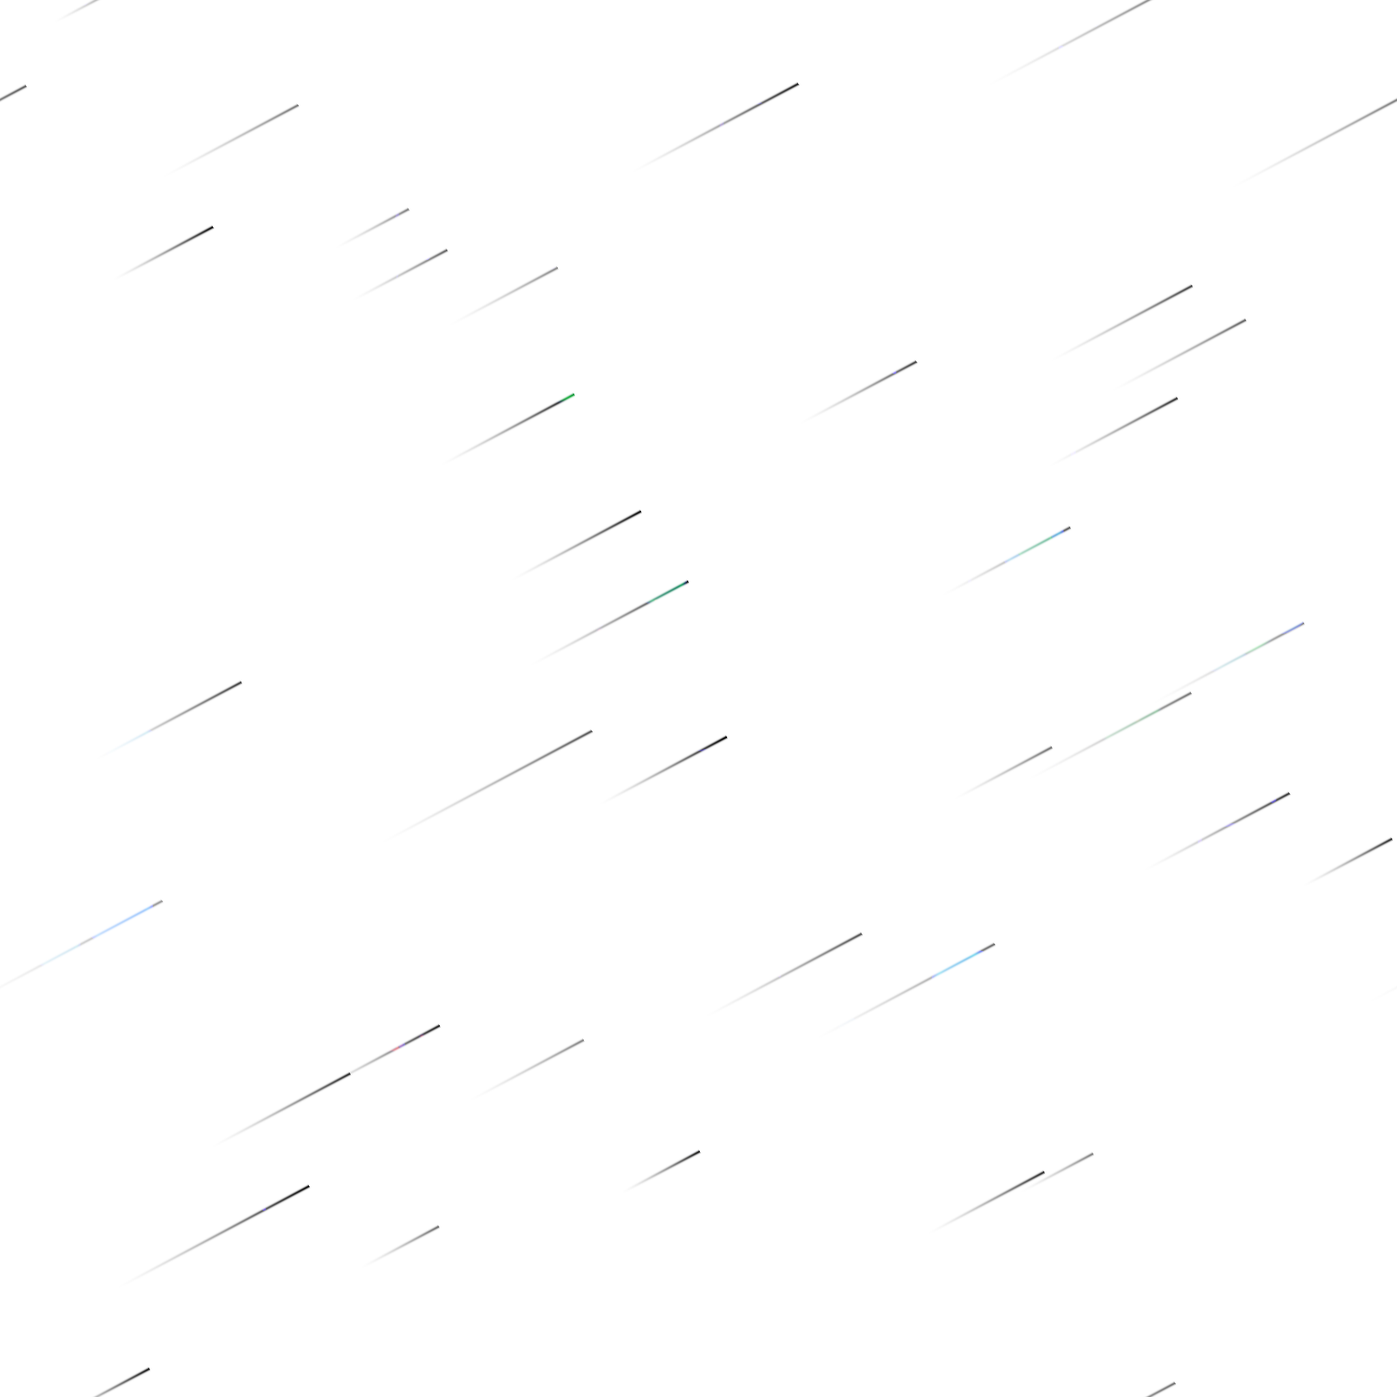
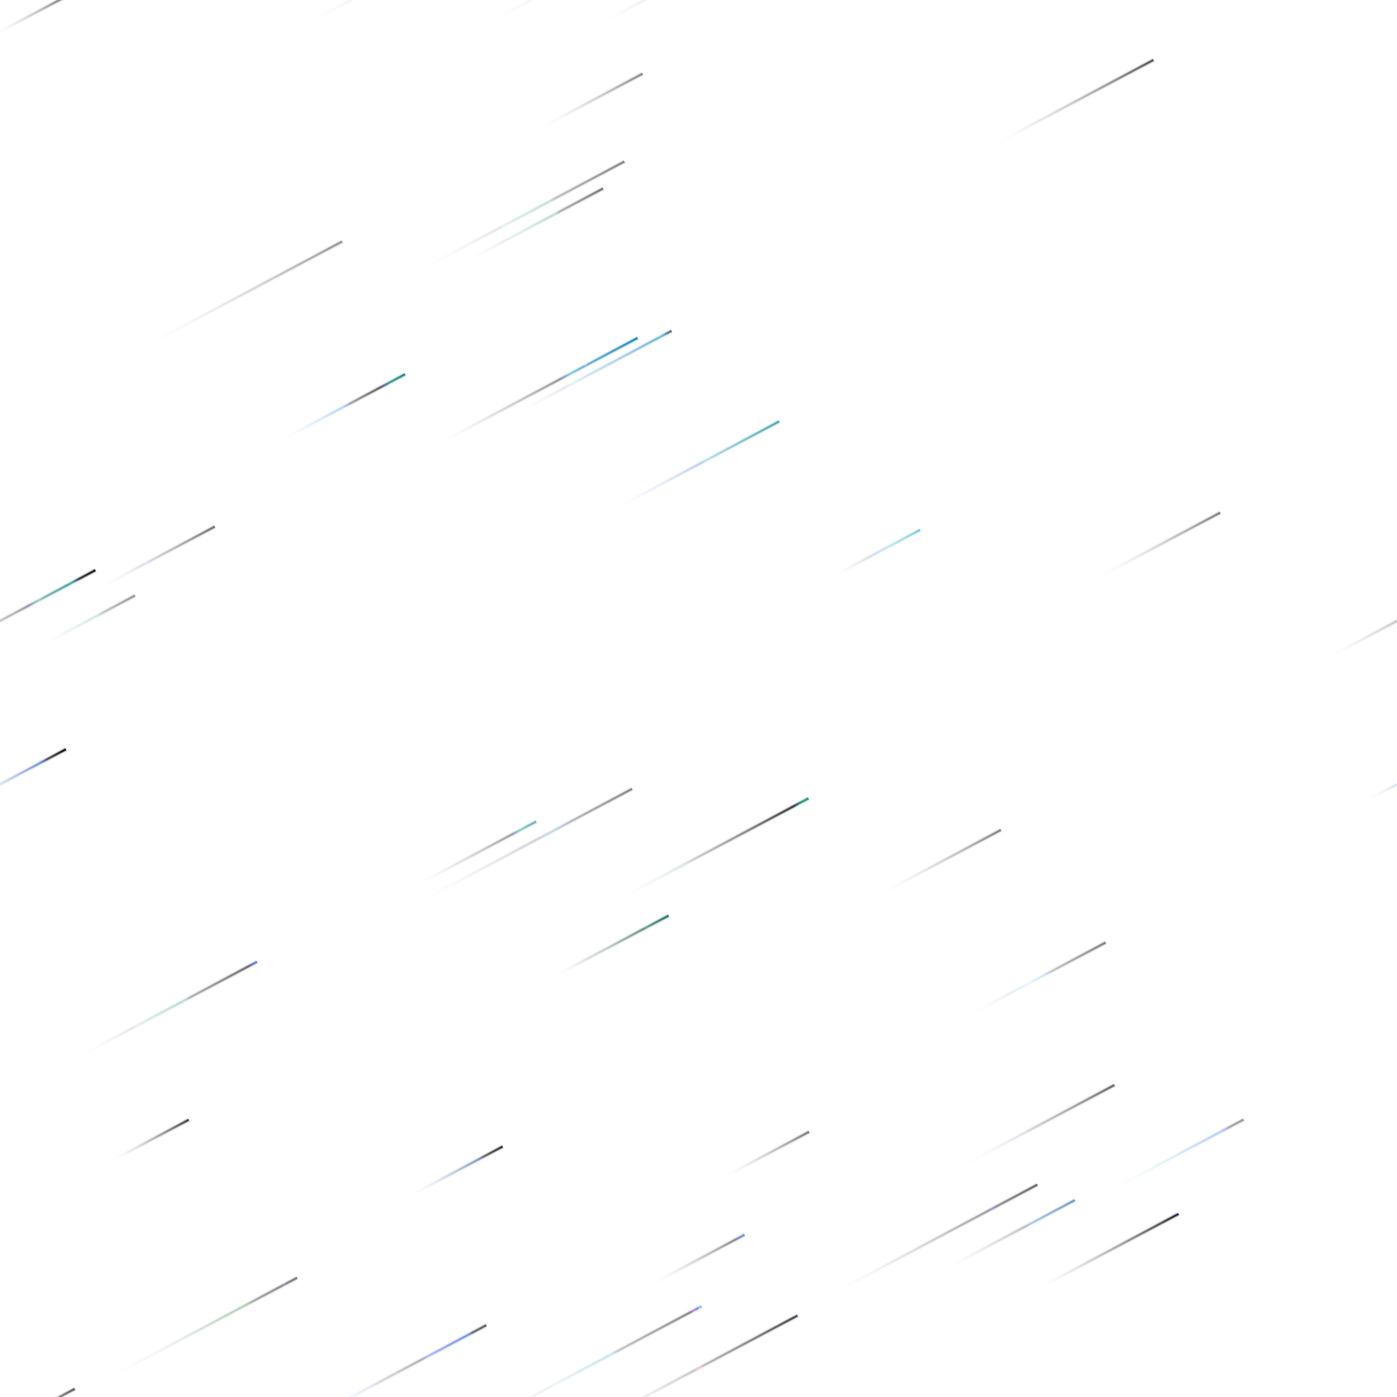
Évolution : fond façon Soleil et Lune (piliers, éclats, lignes de vitesse, anneaux au sol)
Nouvelle texture T_EvolutionFx (piliers, éclats à quatre branches, lignes de vitesse) ;
ciel plus vif avec plus de bokeh, sol avec deux anneaux qui respirent. Réglages dans docs/PROGRESSION.md.

Claude-Session: https://claude.ai/code/session_018Va8hDxUXcx8HaiPBTcg7H

diff --git a/Tools/Progression/import_evolution_backdrop.py b/Tools/Progression/import_evolution_backdrop.py
@@ -4,11 +4,13 @@ Outils > Exécuter un script Python... > choisir ce fichier (n'importe quelle ma
 les deux matériaux à chaque fois (les réglages changés à la main dans ces matériaux sont alors perdus, les noter).
 
 Crée dans /Game/Progression :
-  - T_EvolutionSky : étoiles, bokeh, phase de scintillement, traînées (Tools/Progression/Assets/T_EvolutionSky.png,
-    fabriquée par make_evolution_sky.py) ;
-  - M_EvolutionSky : le ciel derrière le Pokémon. Dégradé bleu (foncé en haut, lumineux à l'horizon), grande
-    lueur au centre de l'image, étoiles qui scintillent et glissent, bokeh qui dérive, traînées de lumière ;
-  - M_EvolutionFloor : le sol lumineux sous le Pokémon (lueur cyan au centre, même bleu que le ciel à l'horizon).
+  - T_EvolutionSky : étoiles, bokeh, phase de scintillement, traînées ; T_EvolutionFx : piliers de lumière,
+    éclats à quatre branches, lignes de vitesse (Tools/Progression/Assets, fabriquées par make_evolution_sky.py) ;
+  - M_EvolutionSky : le fond derrière le Pokémon, d'après l'évolution de Soleil et Lune. Dégradé bleu, lueur au
+    centre de l'image, piliers de lumière qui vacillent, gros bokeh qui monte, éclats qui apparaissent, lignes de
+    vitesse qui partent du centre, étoiles et traînées ;
+  - M_EvolutionFloor : le sol lumineux sous le Pokémon (lueur cyan, deux anneaux qui respirent, même bleu que le
+    ciel à l'horizon).
 Utilisés par UEvolutionBackdropComponent (Source/PokemonNewAge/Progression/EvolutionBackdrop.h), un composant
 de AEvolutionScene. Sans ces matériaux, la scène garde l'ancien fond (le terrain).
 
@@ -21,33 +23,38 @@ import os
 import unreal
 
 HERE = os.path.dirname(os.path.abspath(__file__))
-TEXTURE_FILE = os.path.join(HERE, "Assets", "T_EvolutionSky.png")
+ASSETS = os.path.join(HERE, "Assets")
+TEXTURE_FILE = os.path.join(ASSETS, "T_EvolutionSky.png")
 CONTENT_DIR = "/Game/Progression"
 
 asset_tools = unreal.AssetToolsHelpers.get_asset_tools()
 eal = unreal.EditorAssetLibrary
 mel = unreal.MaterialEditingLibrary
 
-# Couleurs (linéaires) : bleu profond en haut, bleu vif à l'horizon, cyan au centre, comme la référence de L'amie
-HORIZON = unreal.LinearColor(0.01, 0.1, 0.55, 1.0)
-TOP = unreal.LinearColor(0.0, 0.008, 0.08, 1.0)
-CENTER = unreal.LinearColor(0.2, 0.7, 2.0, 1.0)
+# Couleurs (linéaires), d'après l'évolution de Soleil et Lune : salle bleu vif, plus sombre en haut, cyan au centre
+HORIZON = unreal.LinearColor(0.03, 0.3, 0.95, 1.0)
+TOP = unreal.LinearColor(0.004, 0.04, 0.3, 1.0)
+CENTER = unreal.LinearColor(0.25, 0.8, 1.8, 1.0)
 STARS = unreal.LinearColor(0.85, 0.92, 1.0, 1.0)
-BOKEH = unreal.LinearColor(0.2, 0.5, 1.0, 1.0)
+BOKEH = unreal.LinearColor(0.25, 0.7, 1.2, 1.0)
 STREAKS = unreal.LinearColor(1.0, 0.7, 0.95, 1.0)
-FLOOR_GLOW = unreal.LinearColor(0.1, 0.6, 1.6, 1.0)
+PILLARS = unreal.LinearColor(0.6, 0.85, 1.0, 1.0)
+SPARKLES = unreal.LinearColor(1.0, 0.98, 0.85, 1.0)
+SPEED_LINES = unreal.LinearColor(0.85, 0.92, 1.0, 1.0)
+FLOOR_GLOW = unreal.LinearColor(0.2, 0.8, 1.6, 1.0)
+RINGS = unreal.LinearColor(0.6, 0.95, 1.5, 1.0)
 
 
-def import_texture():
+def import_texture(name):
     task = unreal.AssetImportTask()
-    task.set_editor_property("filename", TEXTURE_FILE)
+    task.set_editor_property("filename", os.path.join(ASSETS, name + ".png"))
     task.set_editor_property("destination_path", CONTENT_DIR)
-    task.set_editor_property("destination_name", "T_EvolutionSky")
+    task.set_editor_property("destination_name", name)
     task.set_editor_property("automated", True)
     task.set_editor_property("replace_existing", True)
     task.set_editor_property("save", True)
     asset_tools.import_asset_tasks([task])
-    texture = eal.load_asset(CONTENT_DIR + "/T_EvolutionSky")
+    texture = eal.load_asset(f"{CONTENT_DIR}/{name}")
     # Données (pas des couleurs) : pas de sRGB ; toujours en pleine résolution (gros plan, apparaît d'un coup)
     texture.set_editor_property("srgb", False)
     texture.set_editor_property("compression_settings", unreal.TextureCompressionSettings.TC_DEFAULT)
@@ -172,9 +179,36 @@ def center_glow(graph):
     return graph.mul(graph.mul(falloff, graph.scalar("LueurCentre", 1.0)), graph.color("CouleurCentre", CENTER))
 
 
-def make_sky(texture):
+def mask(graph, source, channel, output=""):
+    flags = {key: key == channel for key in ("r", "g", "b", "a")}
+    return graph.single(unreal.MaterialExpressionComponentMask, source, output, **flags)
+
+
+def append(graph, a, b):
+    expression = graph.node(unreal.MaterialExpressionAppendVector)
+    graph.link(a, "", expression, "A")
+    graph.link(b, "", expression, "B")
+    return expression
+
+
+def screen_coords(graph):
+    """Coordonnées à l'écran : (u × rapport largeur/hauteur, v) et écart au centre (dx, dy) à la même échelle.
+    Le ciel est accroché à la caméra : travailler à l'écran garde les piliers verticaux et les lignes centrées."""
+    screen = graph.node(unreal.MaterialExpressionScreenPosition)
+    size = graph.node(unreal.MaterialExpressionViewSize)
+    aspect = graph.op(unreal.MaterialExpressionDivide, mask(graph, size, "r"), mask(graph, size, "g"))
+    u = mask(graph, screen, "r", "ViewportUV")
+    v = mask(graph, screen, "g", "ViewportUV")
+    uv = append(graph, graph.mul(u, aspect), v)
+    dx = graph.mul(graph.add(u, const_b=-0.5), aspect)
+    dy = graph.add(v, const_b=-0.5)
+    return uv, dx, dy, u
+
+
+def make_sky(texture, fx):
     g = Graph("M_EvolutionSky")
     brightness = g.scalar("Luminosite", 1.0)
+    uv, dx, dy, screen_u = screen_coords(g)
 
     # Dégradé : CouleurHorizon au ras du sol -> CouleurHaut à HauteurDegrade au-dessus
     height, _position = floor_height(g)
@@ -186,25 +220,47 @@ def make_sky(texture):
     # Lueur au centre de l'image : l'éclat de l'évolution (la même sur le sol, pas de cassure à l'horizon)
     sky = g.add(sky, center_glow(g))
 
-    # Étoiles (R) : glissent doucement, scintillent chacune à son rythme
-    tiling = g.scalar("Repetition", 1.2)
-    stars = g.sample(texture, g.uv(tiling), 0.004, 0.0)
+    # Piliers de lumière verticaux (Fx R) : glissent à peine, vacillent
+    pillar_uv = g.mul(uv, g.node(unreal.MaterialExpressionConstant2Vector, r=0.8, g=0.5))
+    pillars = g.sample(fx, pillar_uv, 0.003, 0.0)
+    flicker_time = g.mul(g.node(unreal.MaterialExpressionTime), const_b=0.27)
+    flicker = g.single(unreal.MaterialExpressionSine, g.add(flicker_time, g.mul(screen_u, const_b=1.3)), period=1.0)
+    flicker = g.add(g.mul(flicker, const_b=0.3), const_b=0.7)
+    pillar_light = g.mul(g.mul(pillars, flicker, a_out="R"), g.scalar("Piliers", 1.2))
+    sky = g.add(sky, g.mul(pillar_light, g.color("CouleurPiliers", PILLARS)))
+
+    # Étoiles (Sky R) : glissent doucement, scintillent chacune à son rythme
+    stars = g.sample(texture, g.mul(uv, g.scalar("Repetition", 1.2)), 0.004, 0.0)
     twinkle = g.twinkle(stars, g.scalar("VitesseScintillement", 0.5), 0.2)
-    star_light = g.mul(g.mul(stars, twinkle, a_out="R"), g.scalar("IntensiteEtoiles", 4.0))
+    star_light = g.mul(g.mul(stars, twinkle, a_out="R"), g.scalar("IntensiteEtoiles", 3.0))
     sky = g.add(sky, g.mul(star_light, g.color("CouleurEtoiles", STARS)))
 
-    # Bokeh (G) : plus gros, dérive lente, pulse doucement
-    bokeh_uv = g.mul(g.node(unreal.MaterialExpressionTextureCoordinate), const_b=0.8)
-    bokeh = g.sample(texture, bokeh_uv, 0.0, -0.006)
-    pulse = g.twinkle(bokeh, g.scalar("VitesseBokeh", 0.2), 0.55)
-    bokeh_light = g.mul(g.mul(bokeh, pulse, a_out="G"), g.scalar("IntensiteBokeh", 1.0))
+    # Bokeh (Sky G) : gros ronds flous et nombreux, montent lentement, pulsent
+    bokeh = g.sample(texture, g.mul(uv, const_b=0.7), 0.0, 0.01)
+    pulse = g.twinkle(bokeh, g.scalar("VitesseBokeh", 0.2), 0.45)
+    bokeh_light = g.mul(g.mul(bokeh, pulse, a_out="G"), g.scalar("IntensiteBokeh", 0.8))
     sky = g.add(sky, g.mul(bokeh_light, g.color("CouleurBokeh", BOKEH)))
 
-    # Traînées (A) : filent le long de leur propre direction (même angle que dans la texture)
-    streak_uv = g.node(unreal.MaterialExpressionTextureCoordinate)
-    speed = 0.04
-    streaks = g.sample(texture, streak_uv, -0.883 * speed, 0.469 * speed)
-    streak_light = g.mul(g.mul(streaks, g.scalar("IntensiteTrainees", 1.5), a_out="A"),
+    # Éclats à quatre branches (Fx G) : apparaissent et disparaissent chacun à son tour
+    sparkles = g.sample(fx, g.mul(uv, const_b=0.9), 0.0, 0.004)
+    pop = g.power(g.twinkle(sparkles, g.scalar("VitesseEclats", 0.35), 0.0), 3.0)
+    sparkle_light = g.mul(g.mul(sparkles, pop, a_out="G"), g.scalar("Eclats", 2.5))
+    sky = g.add(sky, g.mul(sparkle_light, g.color("CouleurEclats", SPARKLES)))
+
+    # Lignes de vitesse (Fx A) : en coordonnées polaires autour du centre, elles filent vers l'extérieur
+    angle = g.node(unreal.MaterialExpressionArctangent2)
+    g.link(dy, "", angle, "Y")
+    g.link(dx, "", angle, "X")
+    radius = g.op(unreal.MaterialExpressionDistance, append(g, dx, dy), g.node(unreal.MaterialExpressionConstant2Vector, r=0.0, g=0.0))
+    polar = append(g, g.mul(angle, const_b=4.0 / 6.283185), g.mul(radius, const_b=0.8))
+    lines = g.sample(fx, polar, 0.0, -0.35)
+    fade_in = g.single(unreal.MaterialExpressionSaturate, g.mul(g.add(radius, const_b=-0.1), const_b=5.0))
+    line_light = g.mul(g.mul(lines, fade_in, a_out="A"), g.scalar("LignesVitesse", 0.5))
+    sky = g.add(sky, g.mul(line_light, g.color("CouleurLignes", SPEED_LINES)))
+
+    # Traînées en biais (Sky A), roses comme dans Soleil et Lune
+    streaks = g.sample(texture, uv, -0.883 * 0.04, 0.469 * 0.04)
+    streak_light = g.mul(g.mul(streaks, g.scalar("IntensiteTrainees", 0.6), a_out="A"),
                          g.color("CouleurTrainees", STREAKS))
     sky = g.add(sky, streak_light)
 
@@ -228,10 +284,23 @@ def make_floor(texture):
     floor = g.lerp(g.color("CouleurHorizon", HORIZON), g.color("CouleurSol", FLOOR_GLOW),
                    g.single(unreal.MaterialExpressionSaturate, glow))
 
+    # Anneaux lumineux autour des pieds (le cercle de Soleil et Lune), qui respirent doucement
+    breath = g.single(unreal.MaterialExpressionSine, g.mul(g.node(unreal.MaterialExpressionTime), const_b=0.25), period=1.0)
+    breath = g.add(g.mul(breath, const_b=0.15), const_b=0.85)
+    ring_width = g.scalar("LargeurAnneau", 0.025)
+    rings = None
+    for name, value in (("Anneau1", 0.22), ("Anneau2", 0.34)):
+        offset = g.single(unreal.MaterialExpressionAbs, g.op(unreal.MaterialExpressionSubtract, ratio, g.scalar(name, value)))
+        ring = g.single(unreal.MaterialExpressionOneMinus, g.op(unreal.MaterialExpressionDivide, offset, ring_width))
+        ring = g.power(g.single(unreal.MaterialExpressionSaturate, ring), 2.0)
+        rings = ring if rings is None else g.add(rings, ring)
+    rings = g.mul(g.mul(rings, breath), g.scalar("Anneaux", 1.2))
+    floor = g.add(floor, g.mul(rings, g.color("CouleurAnneaux", RINGS)))
+
     # Reflets de bokeh au sol, en coordonnées du monde (un motif tous les 4 m), très doux
     world_uv = g.mul(xy, const_b=1.0 / 400.0)
     bokeh = g.sample(texture, world_uv, 0.0, 0.01)
-    reflection = g.mul(g.mul(bokeh, g.scalar("BokehSol", 0.3), a_out="G"), g.color("CouleurBokeh", BOKEH))
+    reflection = g.mul(g.mul(bokeh, g.scalar("BokehSol", 0.15), a_out="G"), g.color("CouleurBokeh", BOKEH))
     floor = g.add(floor, reflection)
     floor = g.add(floor, center_glow(g))
 
@@ -239,13 +308,15 @@ def make_floor(texture):
 
 
 def main():
-    if not os.path.exists(TEXTURE_FILE):
-        unreal.log_error(f"Texture introuvable : {TEXTURE_FILE} (lancer make_evolution_sky.py)")
-        return
-    texture = import_texture()
-    make_sky(texture)
+    for name in ("T_EvolutionSky", "T_EvolutionFx"):
+        if not os.path.exists(os.path.join(ASSETS, name + ".png")):
+            unreal.log_error(f"Texture introuvable : {name}.png dans {ASSETS} (lancer make_evolution_sky.py)")
+            return
+    texture = import_texture("T_EvolutionSky")
+    fx = import_texture("T_EvolutionFx")
+    make_sky(texture, fx)
     make_floor(texture)
-    unreal.log(f"Fond de l'évolution : T_EvolutionSky, M_EvolutionSky, M_EvolutionFloor dans {CONTENT_DIR}.")
+    unreal.log(f"Fond de l'évolution : T_EvolutionSky, T_EvolutionFx, M_EvolutionSky, M_EvolutionFloor dans {CONTENT_DIR}.")
 
 
 main()

diff --git a/Tools/Progression/make_evolution_sky.py b/Tools/Progression/make_evolution_sky.py
@@ -2,13 +2,24 @@
 
     python Tools/Progression/make_evolution_sky.py      (numpy + pillow)
 
-Sortie : Tools/Progression/Assets/T_EvolutionSky.png (2048 × 2048, se répète sans raccord). Une donnée par canal,
-lue par M_EvolutionSky et M_EvolutionFloor (import_evolution_backdrop.py) :
+Inspiré de l'évolution de Pokémon Soleil et Lune (captures de L'amie) : salle bleue, piliers de lumière, gros
+bokeh, éclats à quatre branches, lignes de lumière qui partent du centre.
+
+Sorties (2048 × 2048, se répètent sans raccord), une donnée par canal, lues par M_EvolutionSky et
+M_EvolutionFloor (import_evolution_backdrop.py).
+
+T_EvolutionSky.png :
   - R : petites étoiles nettes, quelques-unes avec une croix de lumière ;
   - G : bokeh (grosses taches rondes et douces, comme des lumières floues) ;
   - B : phase de scintillement de chaque étoile ou tache (0-1, le matériau la décale dans le temps) ;
   - A : traînées de lumière fines (étoiles filantes), toutes dans la même direction.
-Le tirage est fixe (graine) : relancer donne la même image.
+
+T_EvolutionFx.png :
+  - R : piliers de lumière verticaux (cœur fin et halo large), de hauteurs variées ;
+  - G : éclats à quatre branches (étoiles « scintillement » de Soleil et Lune) ;
+  - B : phase d'apparition de chaque éclat ;
+  - A : lignes de vitesse, rangées en (angle, distance au centre) : le matériau les fait partir du centre.
+Le tirage est fixe (graine) : relancer donne les mêmes images.
 """
 
 import math
@@ -21,10 +32,11 @@ SIZE = 2048
 SEED = 20261103
 HERE = os.path.dirname(os.path.abspath(__file__))
 OUT = os.path.join(HERE, "Assets", "T_EvolutionSky.png")
+OUT_FX = os.path.join(HERE, "Assets", "T_EvolutionFx.png")
 
-STARS = 700            # petites étoiles
-FLARED_STARS = 45      # étoiles avec une croix de lumière
-BOKEH = 70             # taches rondes floues
+STARS = 350            # petites étoiles
+FLARED_STARS = 30      # étoiles avec une croix de lumière
+BOKEH = 110            # taches rondes floues (nombreuses dans Soleil et Lune)
 STREAKS = 36           # traînées
 STREAK_ANGLE = math.radians(-28.0)   # vers le bas à droite
 
@@ -82,8 +94,8 @@ def make():
     # Bokeh : disques doux avec un bord un peu plus clair (lentille)
     for _ in range(BOKEH):
         cx, cy = rng.uniform(0, SIZE, 2)
-        radius = rng.uniform(14, 60)
-        peak = rng.uniform(0.25, 0.8)
+        radius = rng.uniform(18, 95)
+        peak = rng.uniform(0.25, 0.7)
 
         def disc(dx, dy, radius=radius, peak=peak):
             d = np.sqrt(dx * dx + dy * dy) / radius
@@ -114,5 +126,69 @@ def make():
     print(f"Texture du fond : {OUT}")
 
 
+PILLARS = 12
+SPARKLES = 28
+SPEED_LINES = 70
+
+
+def make_fx():
+    rng = np.random.default_rng(SEED + 1)
+    pillars = np.zeros((SIZE, SIZE), np.float32)
+    sparkles = np.zeros((SIZE, SIZE), np.float32)
+    phase = np.zeros((SIZE, SIZE), np.float32)
+    lines = np.zeros((SIZE, SIZE), np.float32)
+    ys = np.arange(SIZE, dtype=np.float32)
+    xs = np.arange(SIZE, dtype=np.float32)
+
+    def wrapped(delta):
+        return (delta + SIZE / 2) % SIZE - SIZE / 2
+
+    # Piliers : colonnes verticales, cœur net + halo, un segment de hauteur variable aux bouts adoucis
+    for _ in range(PILLARS):
+        cx = rng.uniform(0, SIZE)
+        core = rng.uniform(1.5, 4.5)
+        halo = rng.uniform(20, 70)
+        peak = rng.uniform(0.5, 1.0)
+        top = rng.uniform(0, SIZE)
+        height = rng.uniform(0.35, 0.9) * SIZE
+        dx = wrapped(xs - cx)
+        across = np.exp(-(dx * dx) / (2 * core * core)) + 0.25 * np.exp(-(dx * dx) / (2 * halo * halo))
+        along = (ys - top) % SIZE
+        ends = np.clip(np.minimum(along, height - along) / (0.25 * height), 0, 1) * (along < height)
+        pillars = np.maximum(pillars, peak * np.clip(np.outer(ends, across), 0, 1))
+
+    # Éclats à quatre branches : astroïde pleine, bords doux, cœur brillant
+    for _ in range(SPARKLES):
+        cx, cy = rng.uniform(0, SIZE, 2)
+        size = rng.uniform(25, 110)
+        peak = rng.uniform(0.7, 1.0)
+
+        def sparkle(dx, dy, size=size, peak=peak):
+            shape = (np.abs(dx) / size) ** 0.5 + (np.abs(dy) / size) ** 0.5
+            body = np.clip((1.0 - shape) / 0.25, 0, 1)
+            core = np.exp(-(dx * dx + dy * dy) / (2 * (size * 0.12) ** 2))
+            return peak * np.clip(body * 0.8 + core, 0, 1)
+
+        splat(sparkles, phase, cx, cy, size + 2, sparkle, rng.uniform())
+
+    # Lignes de vitesse : u = angle autour du centre, v = distance ; tirets fins dans le sens de v
+    for _ in range(SPEED_LINES):
+        cx = rng.uniform(0, SIZE)
+        width = rng.uniform(1.0, 3.0)
+        start = rng.uniform(0, SIZE)
+        length = rng.uniform(120, 600)
+        peak = rng.uniform(0.4, 1.0)
+        dx = wrapped(xs - cx)
+        across = np.exp(-(dx * dx) / (2 * width * width))
+        along = (ys - start) % SIZE
+        dash = np.clip(along / (0.3 * length), 0, 1) * np.clip((length - along) / (0.15 * length), 0, 1) * (along < length)
+        lines = np.maximum(lines, peak * np.outer(dash, across))
+
+    image = np.stack([pillars, sparkles, phase, lines], axis=-1)
+    Image.fromarray((np.clip(image, 0, 1) * 255 + 0.5).astype(np.uint8), "RGBA").save(OUT_FX, optimize=True)
+    print(f"Texture des effets : {OUT_FX}")
+
+
 if __name__ == "__main__":
     make()
+    make_fx()

diff --git a/docs/PROGRESSION.md b/docs/PROGRESSION.md
@@ -65,16 +65,20 @@ Créer un Blueprint enfant d'**EvolutionScene** (*Content/Progression/BP_Evoluti
 
 ## Fond étoilé (2026-11-03)
 
-Demandé par L'amie d'après une référence (ciel bleu, étoiles, lumières floues, traînées). À la place du terrain
-sombre, la scène montre un ciel bleu animé derrière le Pokémon et un sol lumineux sous ses pieds.
+Demandé par L'amie d'après une référence (ciel bleu, étoiles, lumières floues, traînées), puis refait le même jour
+façon évolution de Pokémon Soleil et Lune d'après ses captures : salle bleu vif, piliers de lumière verticaux, gros
+bokeh, éclats à quatre branches qui apparaissent et disparaissent, lignes de vitesse qui partent du centre, disque
+lumineux avec deux anneaux sous les pieds. À la place du terrain sombre, la scène montre ce ciel animé derrière le
+Pokémon et le sol lumineux sous ses pieds.
 
 - **Mise en place** : lancer `Tools/Progression/import_evolution_backdrop.py` dans Unreal (*Outils > Exécuter un
   script Python...*), puis compiler (nouveau composant C++). Test : `VoirEvolution Bulbasaur Ivysaur`.
 - **Code** : `UEvolutionBackdropComponent` (`Source/PokemonNewAge/Progression/EvolutionBackdrop.h`), créé par
   `AEvolutionScene`. Le ciel est un panneau accroché à la caméra, derrière tout ce qui est montré ; le sol est un
   disque juste au-dessus des pieds (`FloorLift`, 3 cm) qui va jusqu'au ciel. Sans les matériaux : ancien fond.
-- **Texture** : `Tools/Progression/Assets/T_EvolutionSky.png`, fabriquée par `make_evolution_sky.py`
-  (R étoiles, G bokeh, B phase du scintillement, A traînées).
+- **Textures** fabriquées par `make_evolution_sky.py` (dans `Tools/Progression/Assets/`) :
+  `T_EvolutionSky.png` (R étoiles, G bokeh, B phase du scintillement, A traînées) et `T_EvolutionFx.png`
+  (R piliers, G éclats à quatre branches, B phase des éclats, A lignes de vitesse rangées en angle/distance).
 - **Réglages** (ouvrir `M_EvolutionSky` ou `M_EvolutionFloor`, cliquer sur le paramètre, *Default Value*,
   *Appliquer* ; relancer le script remet les valeurs d'origine) :
 
@@ -84,10 +88,16 @@ sombre, la scène montre un ciel bleu animé derrière le Pokémon et un sol lum
   | `CouleurCentre`, `LueurCentre` | les deux | Grande lueur au centre de l'image. |
   | `IntensiteEtoiles`, `CouleurEtoiles`, `VitesseScintillement`, `Repetition` | ciel | Étoiles (`Repetition` plus grand = plus d'étoiles, plus petites). |
   | `IntensiteBokeh`, `CouleurBokeh`, `VitesseBokeh` | ciel | Lumières floues qui dérivent. |
-  | `IntensiteTrainees`, `CouleurTrainees` | ciel | Traînées de lumière. |
+  | `Piliers`, `CouleurPiliers` | ciel | Piliers de lumière verticaux (ils vacillent doucement). |
+  | `Eclats`, `CouleurEclats`, `VitesseEclats` | ciel | Éclats à quatre branches qui s'allument et s'éteignent. |
+  | `LignesVitesse`, `CouleurLignes` | ciel | Lignes qui partent du centre de l'image. |
+  | `IntensiteTrainees`, `CouleurTrainees` | ciel | Traînées de lumière en diagonale. |
   | `CouleurSol`, `IntensiteSol`, `BokehSol` | sol | Lueur sous le Pokémon. |
+  | `Anneaux`, `CouleurAnneaux`, `Anneau1`, `Anneau2`, `LargeurAnneau` | sol | Les deux anneaux qui respirent autour des pieds (taille en part du rayon de la lueur). |
   | `Luminosite` | les deux | Tout plus clair ou plus sombre. |
 
+- **Vidéo After Effects** : quand L'amie enverra sa boucle (MP4 H.264, sans son), elle pourra remplacer le ciel
+  (Media Player + Media Texture sur le panneau du ciel).
 - **Limite** : si le terrain monte fort autour du Pokémon, une bosse peut passer au-dessus du sol lumineux.
 
 ## Pas encore fait
